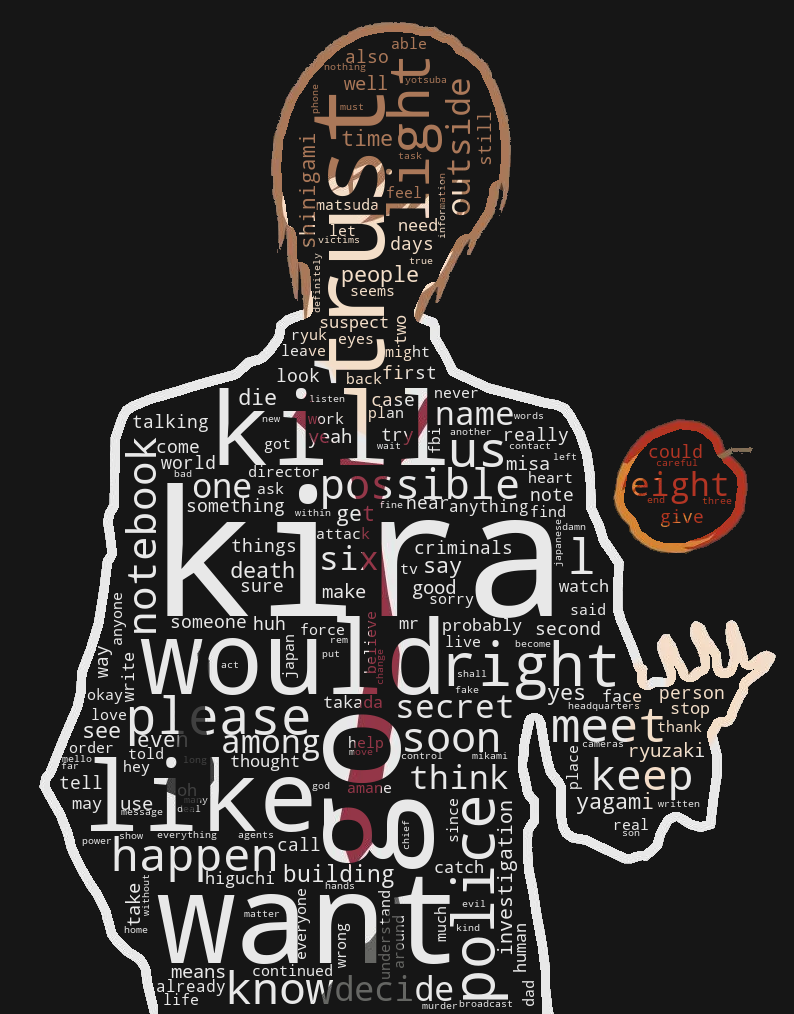
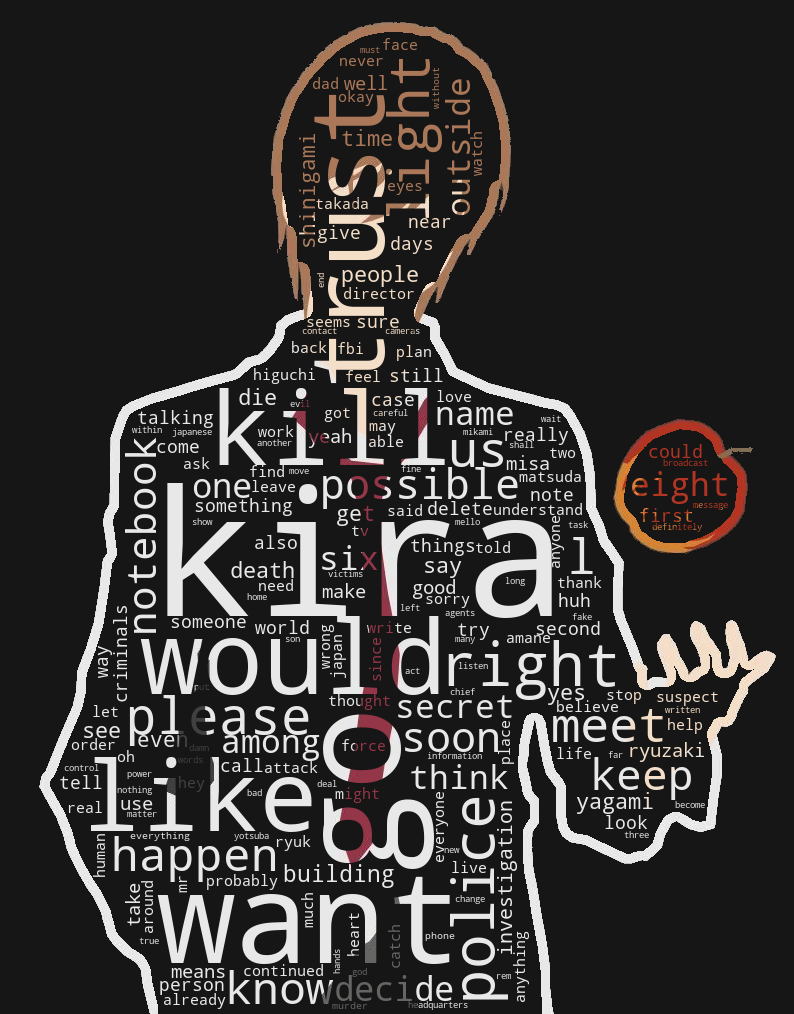
readd the deletes, (it's not an error in the data)

diff --git a/animes/death_note/__init__.py b/animes/death_note/__init__.py
@@ -23,8 +23,6 @@ def get_words_from_subtitles(file, buffer_size=6):
     previous = []
     for caption in webvtt.read(file):
         text = caption.text
-        # weird "Delete"s in the subtitles
-        text = text.replace("Delete", "")
         if text in previous:
             continue
         previous.append(text)

diff --git a/main.py b/main.py
@@ -14,6 +14,7 @@ def generate(submodule_name):
     mask = Image.open(module_path / Path("mask.png"))
     words = module.get_words()
     words = words_processing(words)
+    print(words["delete"])
     wc = wordcloud_visualization(words, colormap, mask)
     wc.save(f"wordclouds/{submodule_name}.png")
 
